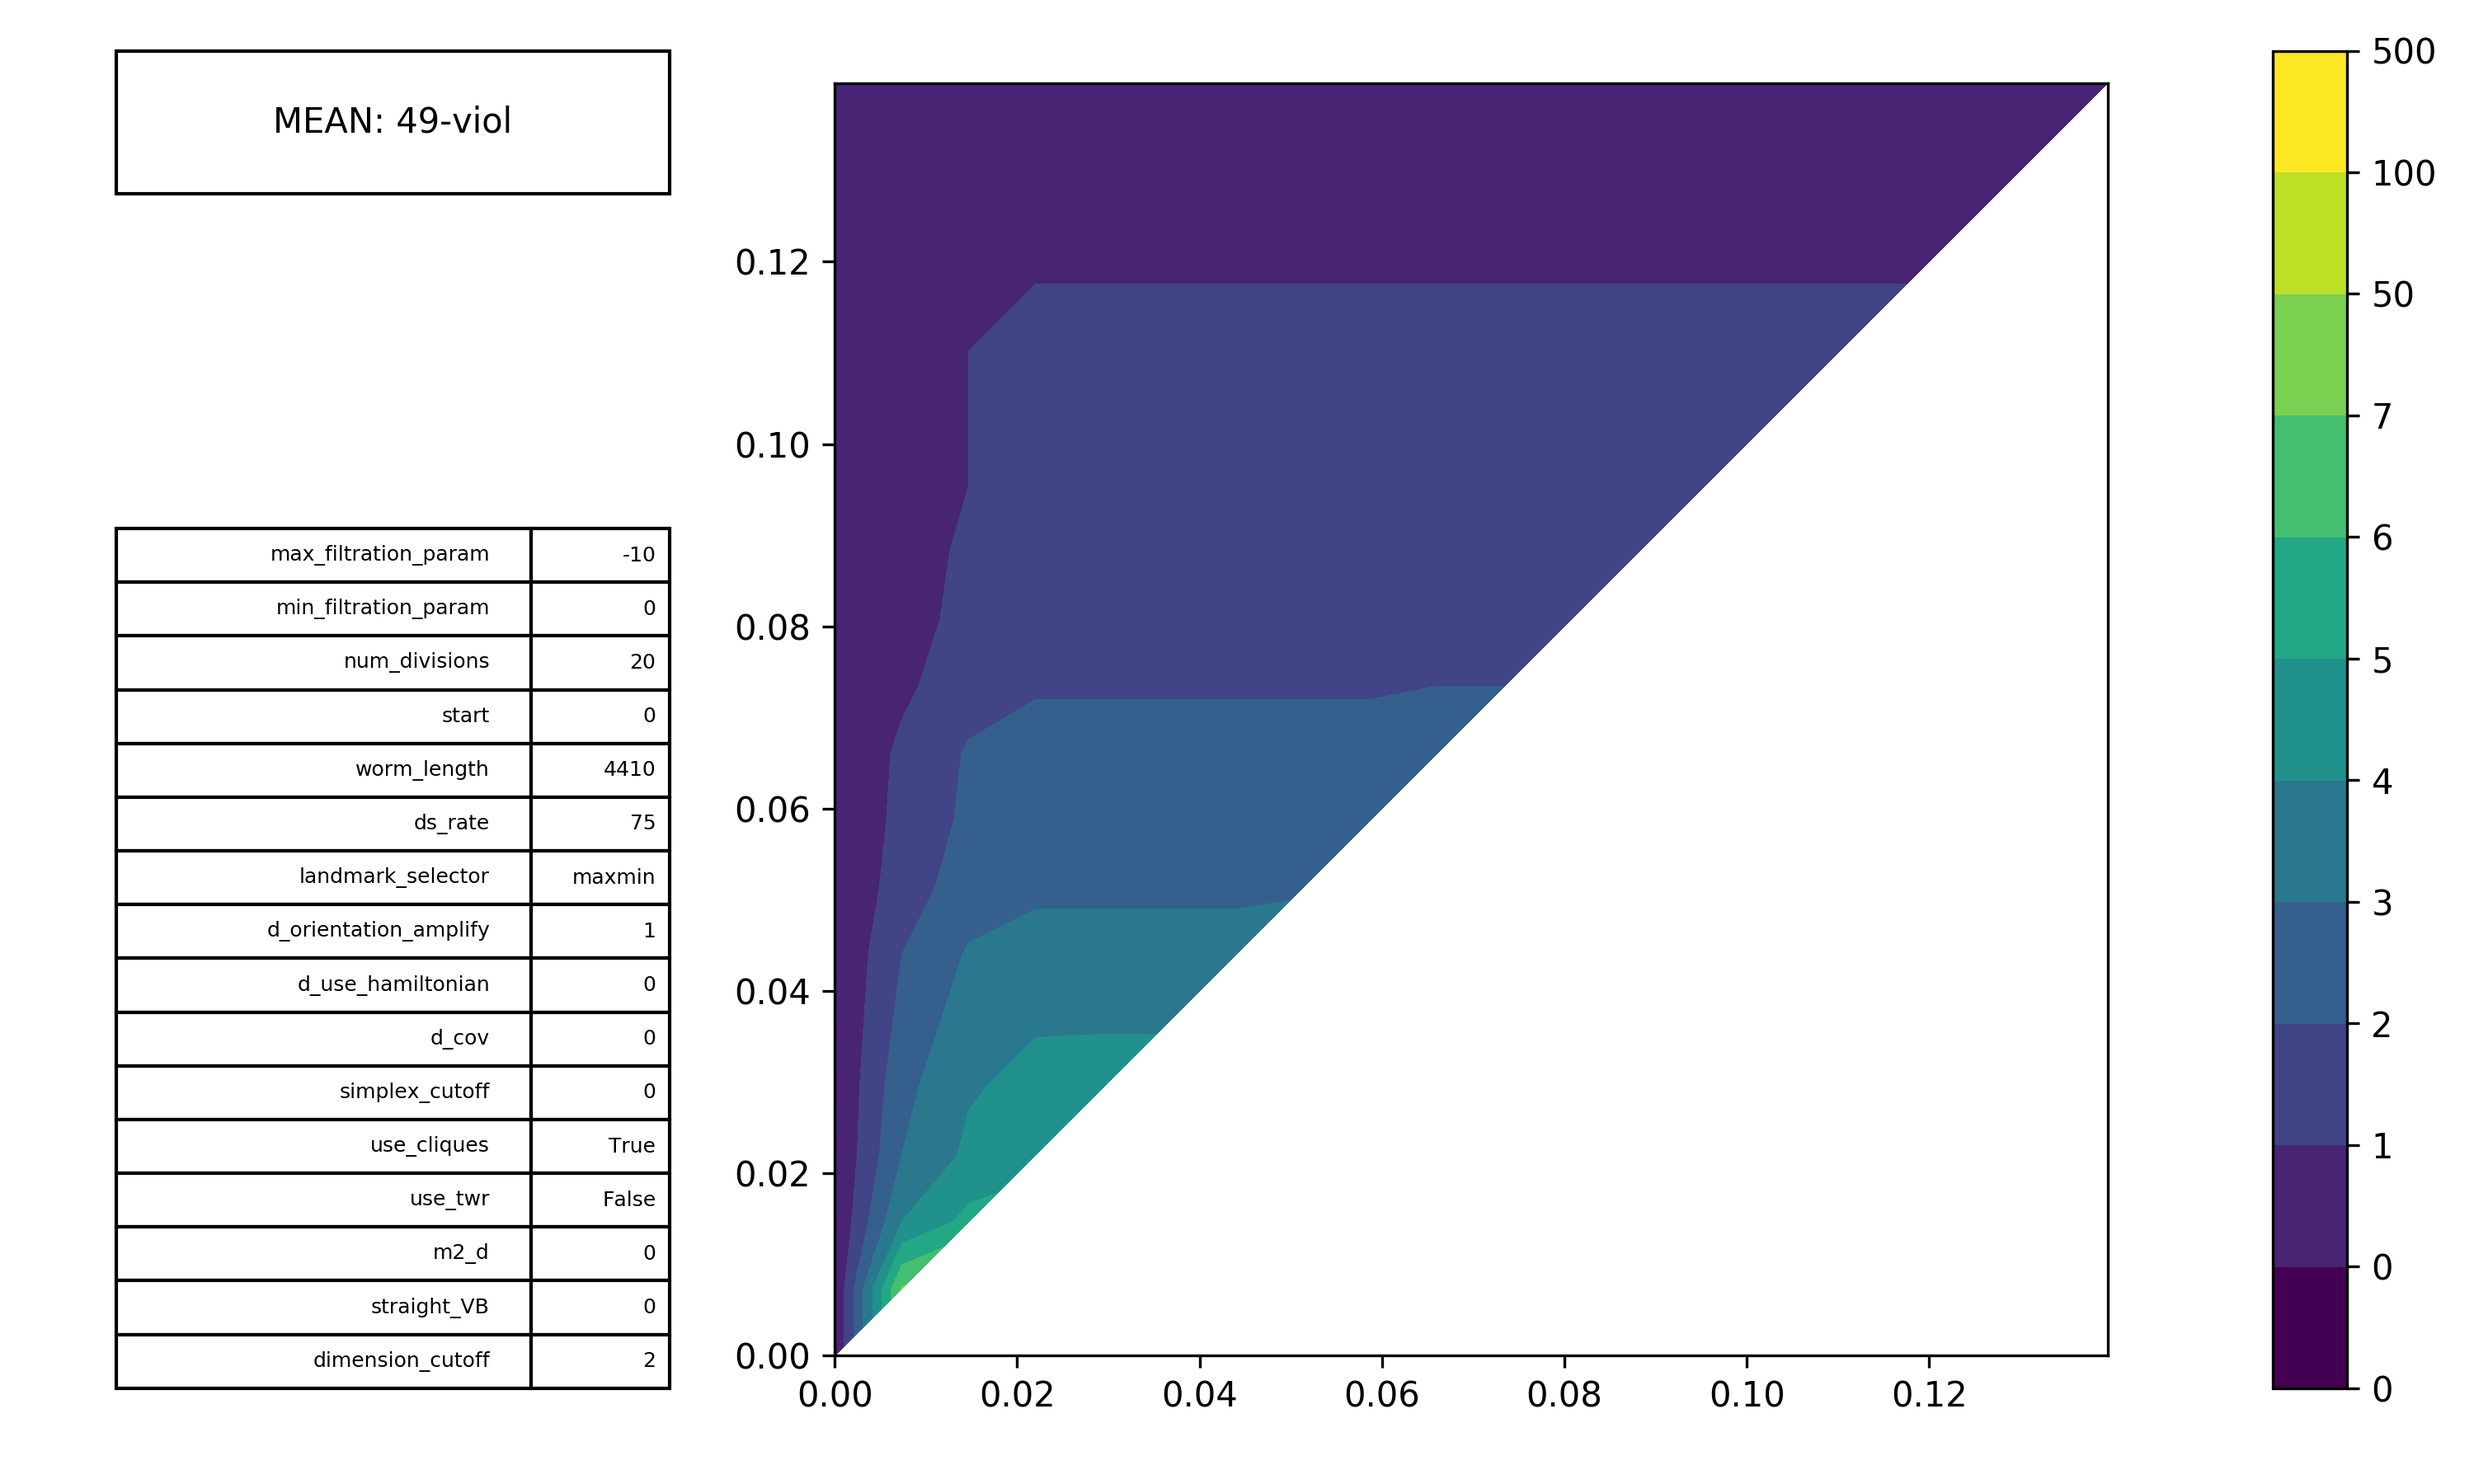
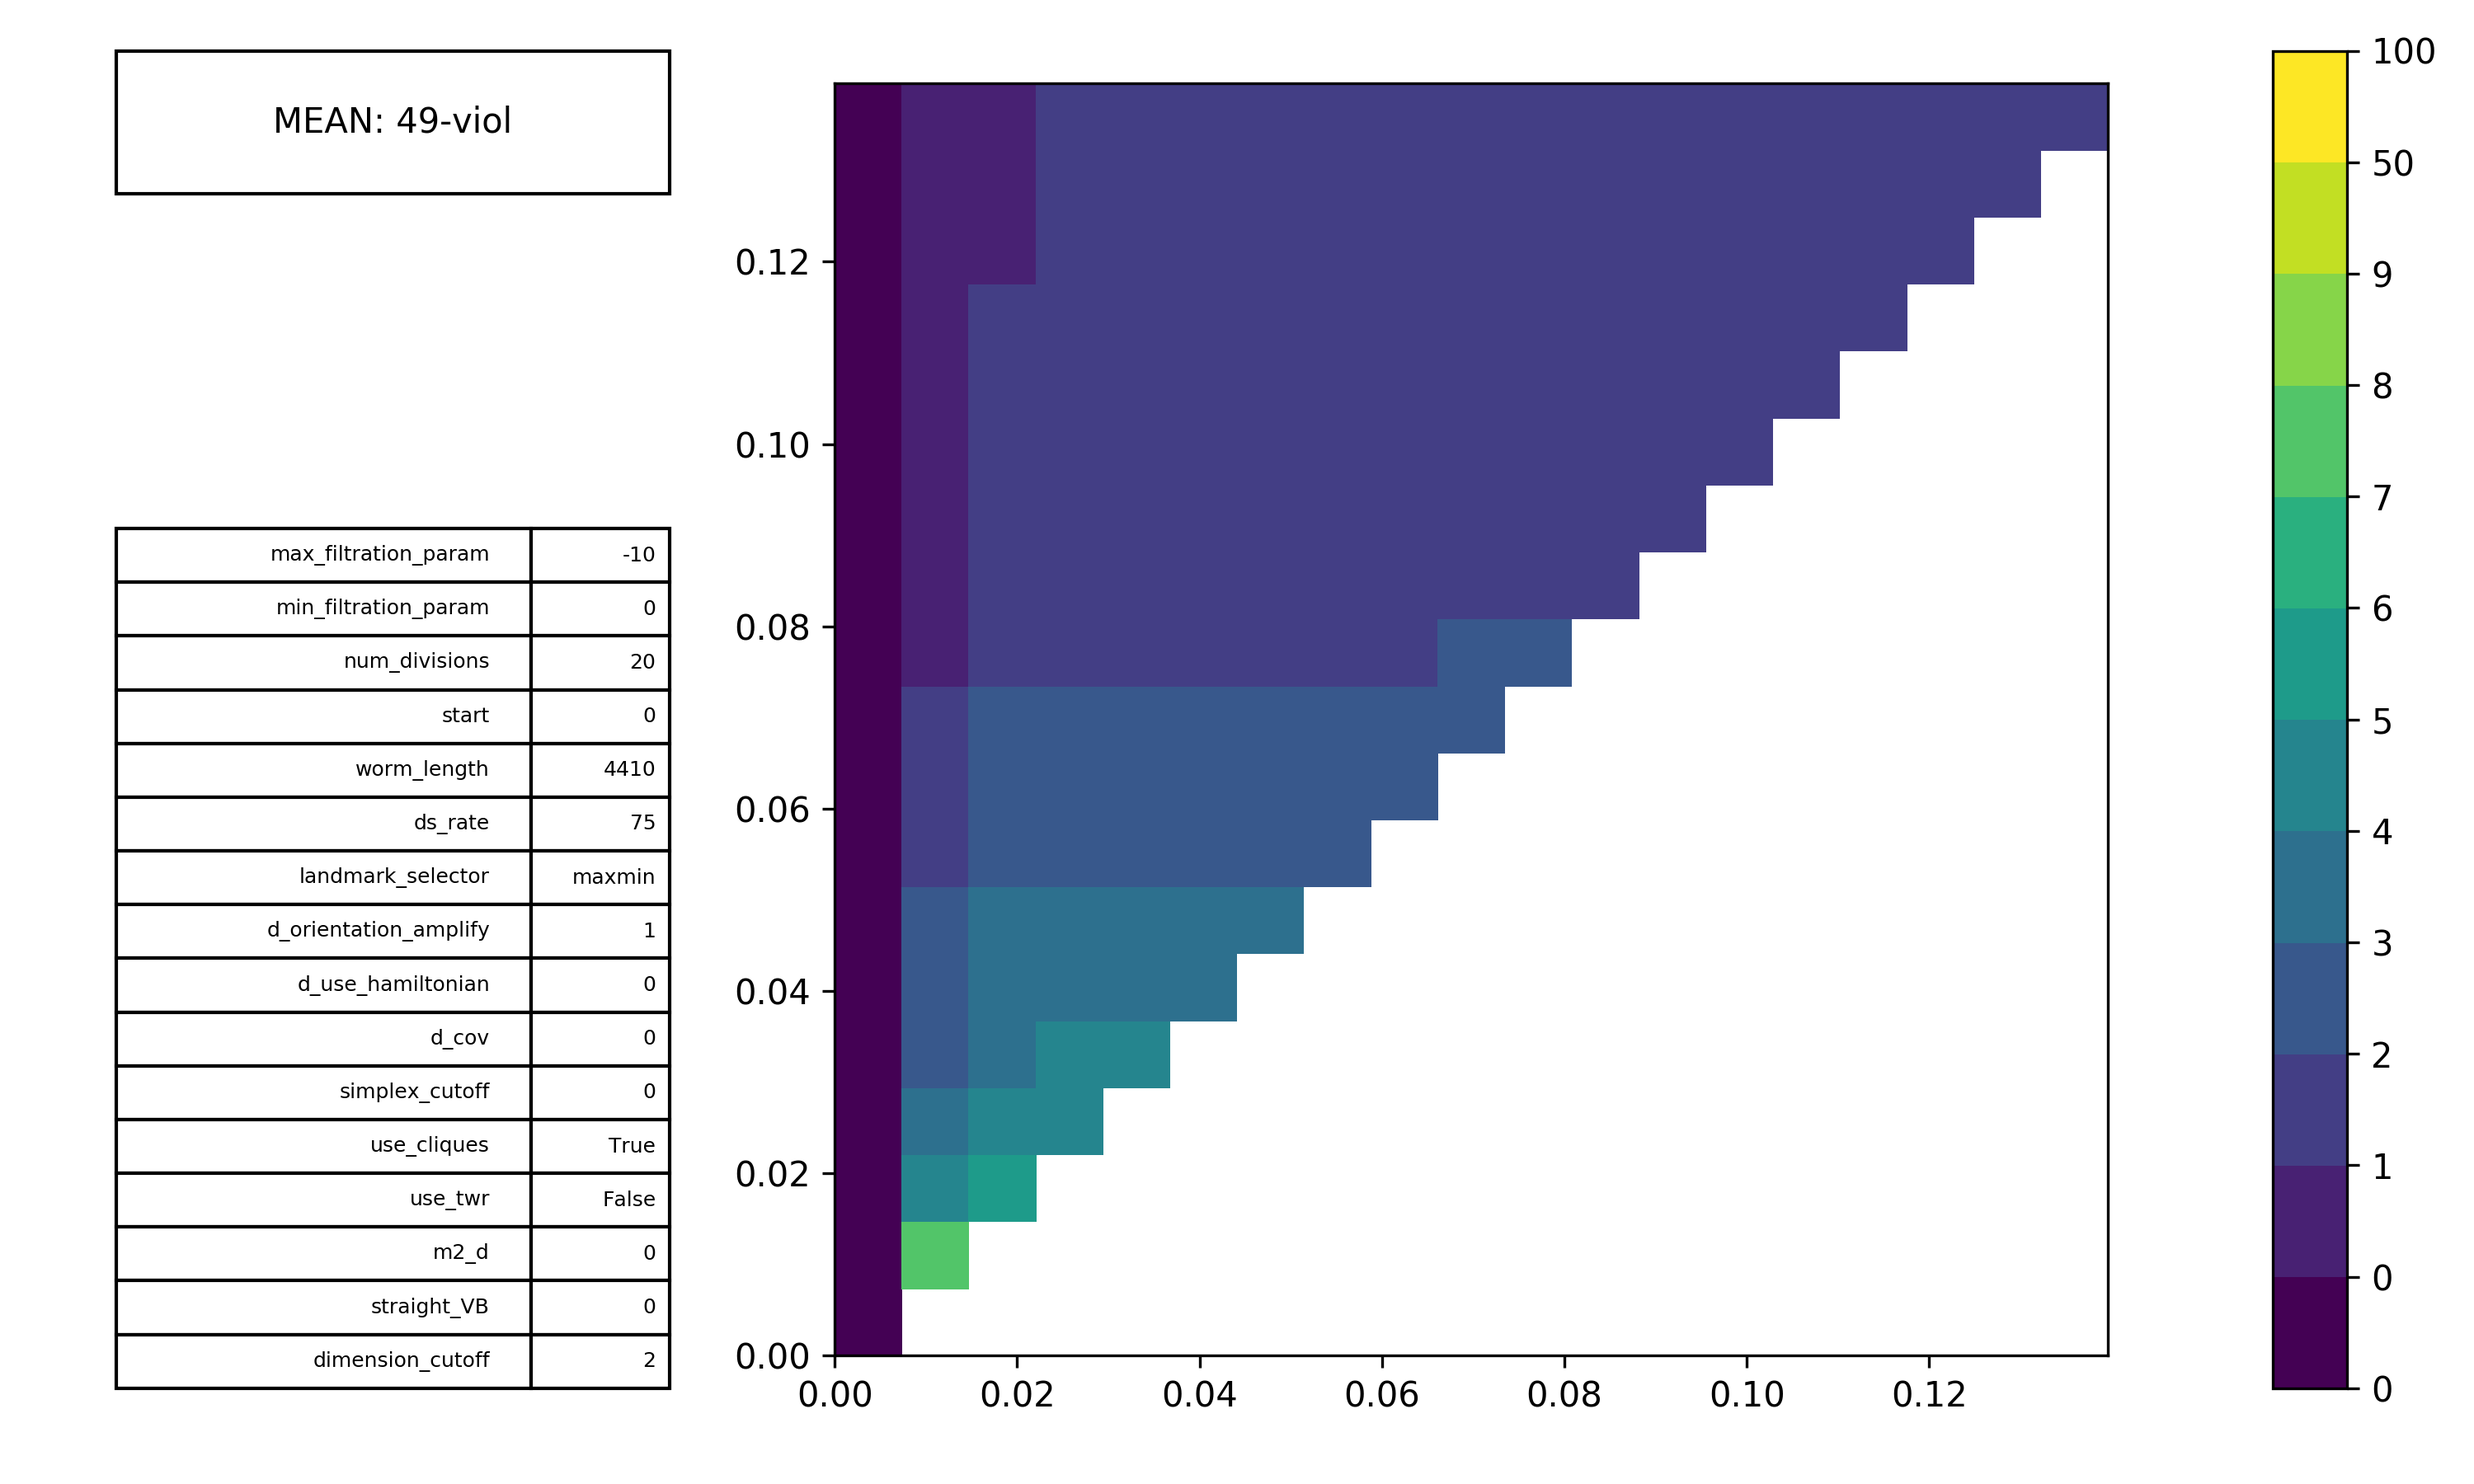
add prf color bin 0

diff --git a/PH/Plots.py b/PH/Plots.py
@@ -155,9 +155,9 @@ def make_PRF_plot(filt, out_filename, PRF_res=50, params=None, in_filename=None)
 
 
 	viridis = matplotlib.cm.get_cmap('viridis')
-	colors = [viridis(i) for i in np.linspace(0, 1, 11)]
+	colors = [viridis(i) for i in np.linspace(0, 1, 12)]
 
-	levels = np.concatenate([np.arange(0, 10), [50, 100]])
+	levels = np.concatenate([[0, .001], np.arange(1, 10), [50, 100]])
 	cmap, norm = matplotlib.colors.from_levels_and_colors(levels, colors)
 
 	# plot_ax.set_xlim([0, max_lim])

diff --git a/prfcTester.py b/prfcTester.py
@@ -456,7 +456,7 @@ if test == 14:
 		'output/PRFCompare/mean/viol_C134C.png',  		# out filename
 		params,
 
-		load_saved_filtrations=False,
+		load_saved_filtrations=True,
 
 		time_units='seconds',
 
